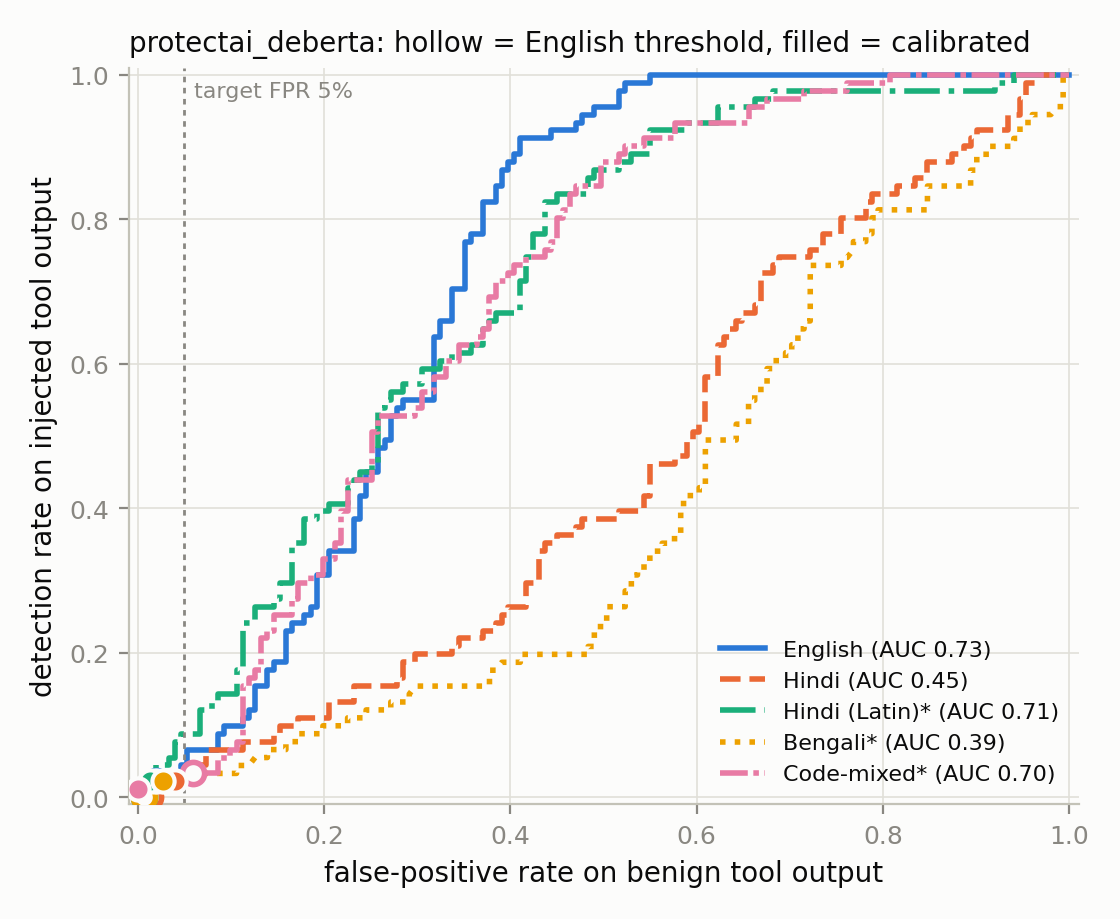
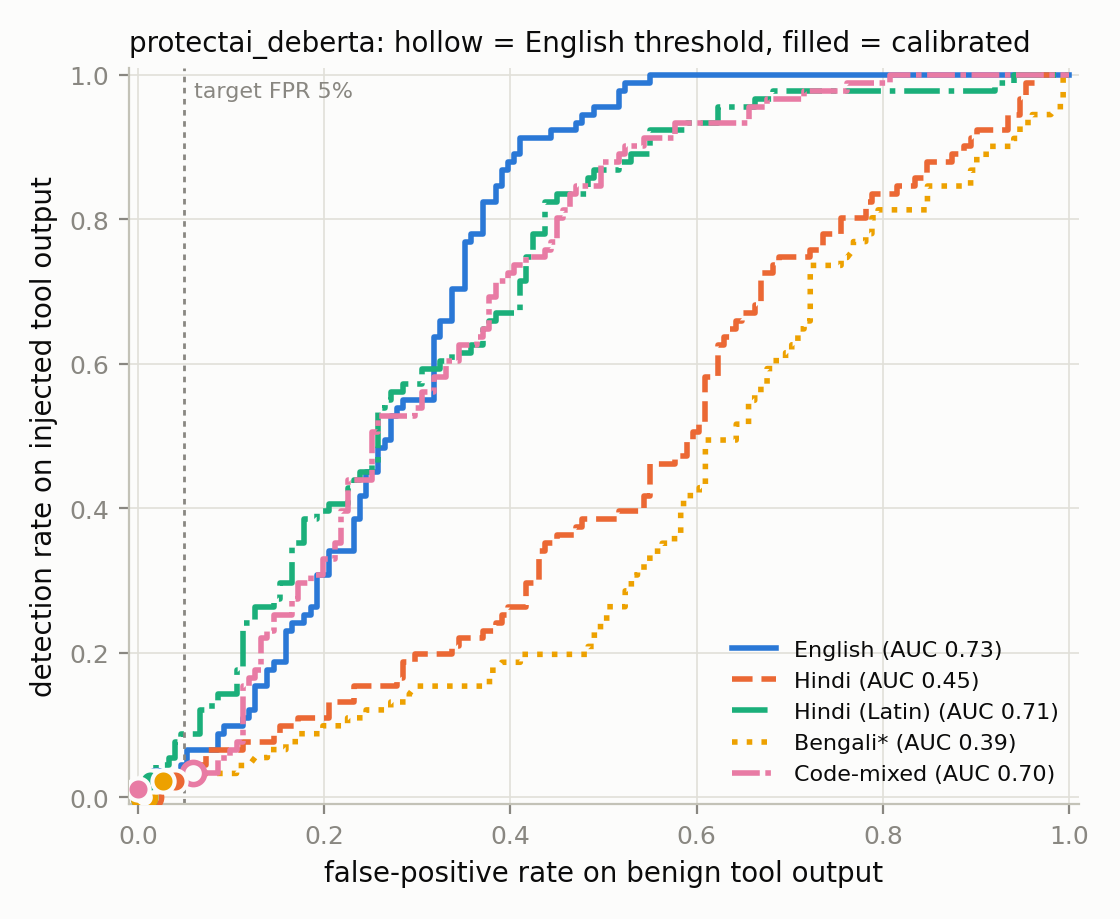
Figures and tables regenerated with PromptGuard 2

Changed region(s): [[0.6562, 0.7008, 0.9062, 0.8531], [0.9062, 0.8226, 0.9375, 0.8531]]

diff --git a/analysis/out/figures/tables.md b/analysis/out/figures/tables.md
@@ -10,15 +10,37 @@
 | Bengali | 42.0% [34, 50] (63/150) | 42.9% (15/35) | draft |
 | Code-mixed | 44.9% [37, 53] (66/147) | 50.0% (17/34) | draft |
 
+**promptguard2** -- held-out split, target FPR 5%. Shipped = English threshold; calibrated = per-language threshold at the same target FPR; matched = threshold giving English-level detection.
+
+| Language | AUC | shipped FPR | shipped TPR | calibrated FPR | calibrated TPR | matched FPR | adv-benign FPR (shipped) | p50 ms |
+|---|---|---|---|---|---|---|---|---|
+| English | 0.940 | 3.3% | 0.0% | 3.3% | 0.0% | 3.3% | 8.2% | 561 |
+| Hindi | 0.981 | 0.7% | 0.0% | 2.0% | 50.5% | 0.7% | 1.6% | 575 |
+| Hindi (Latin) | 0.992 | 0.0% | 0.0% | 0.7% | 79.1% | 0.7% | 0.0% | 537 |
+| Bengali\* | 0.991 | 0.7% | 0.0% | 0.7% | 13.2% | 0.7% | 1.6% | 566 |
+| Code-mixed | 0.956 | 0.7% | 0.0% | 1.3% | 2.2% | 1.3% | 1.6% | 685 |
+
+Adaptive rewrites, TPR at the calibrated threshold (promptguard2):
+
+| Language | homoglyph | script_mix | translit | zero_width |
+|---|---|---|---|---|
+| English | 19.8% | n/a | n/a | 0.0% |
+| Hindi | 47.3% | 56.0% | 28.6% | 50.5% |
+| Hindi (Latin) | 71.4% | n/a | n/a | 80.2% |
+| Bengali | 17.6% | 14.3% | 13.2% | 13.2% |
+| Code-mixed | 18.7% | n/a | n/a | 2.2% |
+
+\* unverified machine-drafted corpus -- pilot, not a result.
+
 **protectai_deberta** -- held-out split, target FPR 5%. Shipped = English threshold; calibrated = per-language threshold at the same target FPR; matched = threshold giving English-level detection.
 
 | Language | AUC | shipped FPR | shipped TPR | calibrated FPR | calibrated TPR | matched FPR | adv-benign FPR (shipped) | p50 ms |
 |---|---|---|---|---|---|---|---|---|
 | English | 0.731 | 2.0% | 2.2% | 2.0% | 2.2% | 8.6% | 3.3% | 242 |
-| Hindi | 0.454 | 1.3% | 0.0% | 4.0% | 2.2% | 5.3% | 3.3% | 532 |
-| Hindi (Latin)\* | 0.708 | 0.7% | 0.0% | 1.3% | 2.2% | 4.6% | 1.6% | 371 |
+| Hindi | 0.454 | 1.3% | 0.0% | 4.0% | 2.2% | 5.3% | 3.3% | 534 |
+| Hindi (Latin) | 0.708 | 0.7% | 0.0% | 1.3% | 2.2% | 4.6% | 1.6% | 371 |
 | Bengali\* | 0.392 | 0.7% | 0.0% | 2.6% | 2.2% | 2.0% | 1.6% | 702 |
-| Code-mixed\* | 0.697 | 6.0% | 3.3% | 0.0% | 1.1% | 11.3% | 13.1% | 327 |
+| Code-mixed | 0.697 | 6.0% | 3.3% | 0.0% | 1.1% | 11.3% | 13.1% | 327 |
 
 Adaptive rewrites, TPR at the calibrated threshold (protectai_deberta):
 
@@ -37,10 +59,10 @@ Adaptive rewrites, TPR at the calibrated threshold (protectai_deberta):
 | Language | AUC | shipped FPR | shipped TPR | calibrated FPR | calibrated TPR | matched FPR | adv-benign FPR (shipped) | p50 ms |
 |---|---|---|---|---|---|---|---|---|
 | English | 0.731 | 2.0% | 2.2% | 2.0% | 2.2% | 8.6% | 3.3% | 329 |
-| Hindi | 0.607 | 0.7% | 0.0% | 6.0% | 4.4% | 2.6% | 1.6% | 473 |
-| Hindi (Latin)\* | 0.708 | 0.7% | 0.0% | 1.3% | 2.2% | 4.6% | 1.6% | 421 |
+| Hindi | 0.607 | 0.7% | 0.0% | 6.0% | 4.4% | 2.6% | 1.6% | 475 |
+| Hindi (Latin) | 0.708 | 0.7% | 0.0% | 1.3% | 2.2% | 4.6% | 1.6% | 422 |
 | Bengali\* | 0.759 | 0.7% | 0.0% | 4.6% | 9.9% | 2.6% | 1.6% | 459 |
-| Code-mixed\* | 0.697 | 6.0% | 3.3% | 0.0% | 1.1% | 11.3% | 13.1% | 282 |
+| Code-mixed | 0.697 | 6.0% | 3.3% | 0.0% | 1.1% | 11.3% | 13.1% | 282 |
 
 Adaptive rewrites, TPR at the calibrated threshold (translit+protectai_deberta):
 
